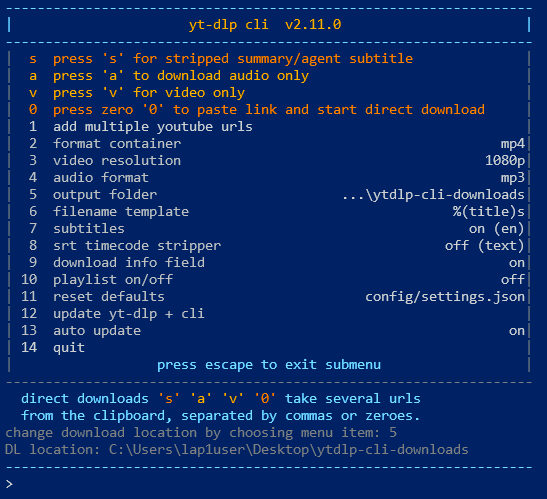
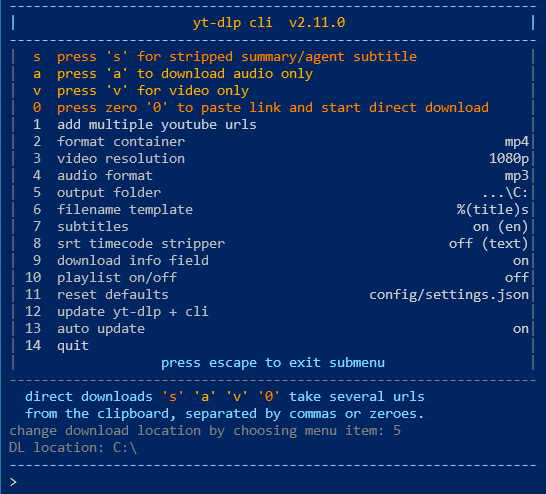
docs: recapture the menu with a neutral output path
The 547x499 capture carried the developer path in the DL location line. The new 546x494 capture shows C:\ instead; the menu rows and notices are unchanged.

diff --git a/specsheet/06-phases-and-gates.md b/specsheet/06-phases-and-gates.md
@@ -82,7 +82,7 @@ G10 EVIDENCE v2.10.1: rust.yml run 44156313295 and bundles.yml run 44156328480 o
 
 G10 EVIDENCE v2.11.0: rust.yml run 44165943207 and bundles.yml run 44166617703 on d79b35e, all jobs green (six rust jobs including the dependency audit, seven bundle jobs: windows x64 bundle and setup, windows arm64, linux x64, linux arm64, linux x64 musl, linux arm64 musl, macos pkg). Payload pins unchanged from v2.10.0. The release changes documentation only: the README names the files by pattern (`ytdlp-cli-<ver>-...`) and sends sizes and digests to the release notes, so the copy embedded in a bundle is correct for the release it belongs to; `resources/` (menu capture and flow image) now ships in every bundle and the macOS pkg. The digest rows left the README and the integration test became `notes_pinned_digests_match_when_releases_exist` (release_digests.rs), which parses RELEASE-NOTES.md, asserts the README carries no digest rows and hashes local artifacts when releases/ is present. The first dispatch of this change, run 44163155307 on 6b4fd03, built the same products but its rust.yml run 44163146726 failed in the old `readme_pinned_digests_match_when_releases_exist` because the README block was gone; d79b35e fixes the test and the run above is the released one, so run 44163155307 is superseded and its artifacts must not be published. CI SHA256SUMS rows: 0fdb1439... linux arm64 musl 2180806, 84d692d0... linux arm64 60662607, 46885f0d... linux musl 2335881, 03d2fd87... linux 62322743, 3e09eaa8... macos arm64 pkg 70515806, 735c9573... windows arm64 45544371, 8285b75b... windows setup 34557092, c7d29420... windows zip 42340479. Tag v2.11.0 is lightweight on d79b35e, the build commit, and was pushed before the release. The release holds nine assets whose api digest and size equal those rows; the notes asset (5834 bytes) digest 0850765f... equals the uploaded file and returns exactly one row for each of the four Linux file names install.sh can pick. Local proof from the published bytes: the windows zip expands with 139 `_internal` files and `resources/` carrying both images, answers selftest 186/0, `--check` resolves bin/yt-dlp.exe, PE FileVersion 2.11.0.0, README.md hashes 49187a4b... and resources/screenshot ytdlp-cli.png b3b76452..., both equal to the repository files at d79b35e; the linux tar extracts with mode 0755, 174 `_internal` entries and `resources/`, selftest 186/0, payloads 9eac5b2b... and 85196f96...; the musl tar is static-pie, carries bin/srtstripper and `resources/`, selftest 186/0. The update path was proven live: the installed v2.10.1 fetched the windows zip through --update, passed the digest gate and the quiet selftest, reads FileVersion 2.11.0.0 with selftest 186/0 and settings unchanged at 18 keys, and a second --update answers "published v2.11.0, this is v2.11.0 - already current". The self-update swaps the binary only, so an existing install keeps its old folder and gains no `resources/`; a fresh unpack of the zip or the setup.exe carries them. Suite at d79b35e: 224 lib tests (222 passing, 2 ignored) and three integration suites green, packaged selftest 186, fmt and clippy with warnings denied clean.
 
-POST-RELEASE DOCS: a0dd66e added the runtime-folder block to the README, 6dec2e1 replaced the menu capture (547x499, sha256 187fcf27...), 366002a rebuilt the process flow against that capture, 5efcee3 rewrote the README around install and use, 7f14e7a removed the Updates section, 7b6dca1 replaced the flow capture with a 688x702 crop (sha256 b91bd710...), and b3a3196 moved Use above Install and Bundles. The published v2.11.0 bundles carry the d79b35e README (49187a4b...) and the 2.10.1 menu capture (b3b76452...); the repository at 81fac1a reads 01a25d50... and 187fcf27..., and the v2.11.1 build carries it.
+POST-RELEASE DOCS: a0dd66e added the runtime-folder block to the README, 6dec2e1 replaced the menu capture (547x499, sha256 187fcf27...), 366002a rebuilt the process flow against that capture, 5efcee3 rewrote the README around install and use, 7f14e7a removed the Updates section, 7b6dca1 replaced the flow capture with a 688x702 crop (sha256 b91bd710...), and b3a3196 moved Use above Install and Bundles. The published v2.11.0 bundles carry the d79b35e README (49187a4b...) and the 2.10.1 menu capture (b3b76452...); the repository at 81fac1a reads 01a25d50... and 187fcf27..., and the v2.11.1 build carries it. A later capture replaces the menu image: 546x494, sha256 3e6c9128..., with `C:\` in the DL location line instead of the developer path; the flow image is unchanged.
 
 G10 EVIDENCE v2.11.1: rust.yml run 44210155597 and bundles.yml run 44210163886 on 75f1de8, all jobs green (six rust jobs including the dependency audit, seven bundle jobs: windows x64 bundle and setup, windows arm64, linux x64, linux arm64, linux x64 musl, linux arm64 musl, macos pkg). Payload pins unchanged from v2.11.0. The release fixes the post-v2.11.0 audit findings: the windows arm64 cli takes the crt-static flag and its bundle job reads the extracted exe's import table (only system DLLs; the v2.11.0 zip imported VCRUNTIME140.dll and the api-ms-win-crt set); `ytdlp_tree_asset` names the arm64 onedir zips, so item 12 updates the tree on both arm64 platforms; a url list counts only the subtitle files its own pass wrote (a snapshot before the pass); command-line overrides apply on the quick path only; Ctrl+C stops a list; docs/flow carries the 17-node render. The release digest test hashes the local artifacts at any depth and the README guard rejects any release pin. CI SHA256SUMS rows: 3093285d... linux arm64 musl 2088257, fb3a2000... linux arm64 60576098, 4fbe5a68... linux musl 2244839, 25120de9... linux 62227241, b6dc1bd9... macos arm64 pkg 70426147, b562f862... windows arm64 45509268, 1802541b... windows setup 34462781, 7a384f8d... windows zip 42250199; the same rows are in RELEASE-NOTES.md. Tag v2.11.1 is lightweight on 75f1de8, the build commit, and was pushed before the release. The release holds nine assets whose api digest and size equal those rows; the notes asset (7781 bytes) digest d3428f86... equals the uploaded file, the release body matches it, and the file returns exactly one row for each of the eight release file names. Local proof from the CI bytes: the windows zip expands with 139 `_internal` files and both `resources/` images, answers selftest 186/0, FileVersion 2.11.1.0; the windows arm64 zip carries 135 `_internal` files and both images, FileVersion 2.11.1.0, and an import table of 12 system DLLs only; the linux tar carries 147 `_internal` files and both images, answers selftest 186/0, payloads 9eac5b2b... and 85196f96...; the linux arm64 tar carries 145 `_internal` files and both images, payloads 6e7b1d7d... and 25b2ca6e..., proven on its arm runner because an aarch64 binary cannot run on the x86_64 host; the musl tar is static-pie with bin/srtstripper only (0a1a7ae0...) and both images, selftest 186/0; the arm64 musl tar is a static aarch64 binary with srtstripper 9218bb78..., proven on its runner; the pkg installed, answered selftest 186/0, passed the digest and arm64-slice checks and uninstalled on the macOS runner. The bundle README.md (01a25d50...) and `resources/screenshot ytdlp-cli.png` (187fcf27...) equal the repository files at 75f1de8. Suite at 75f1de8: 225 lib tests (223 passing, 2 ignored) and three integration suites green; fmt and clippy with warnings denied clean.
 
